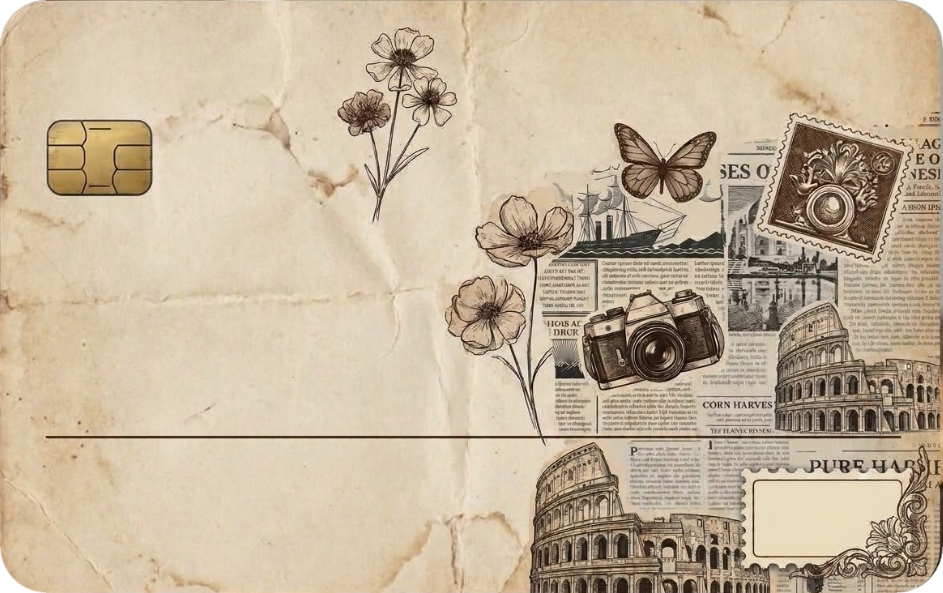
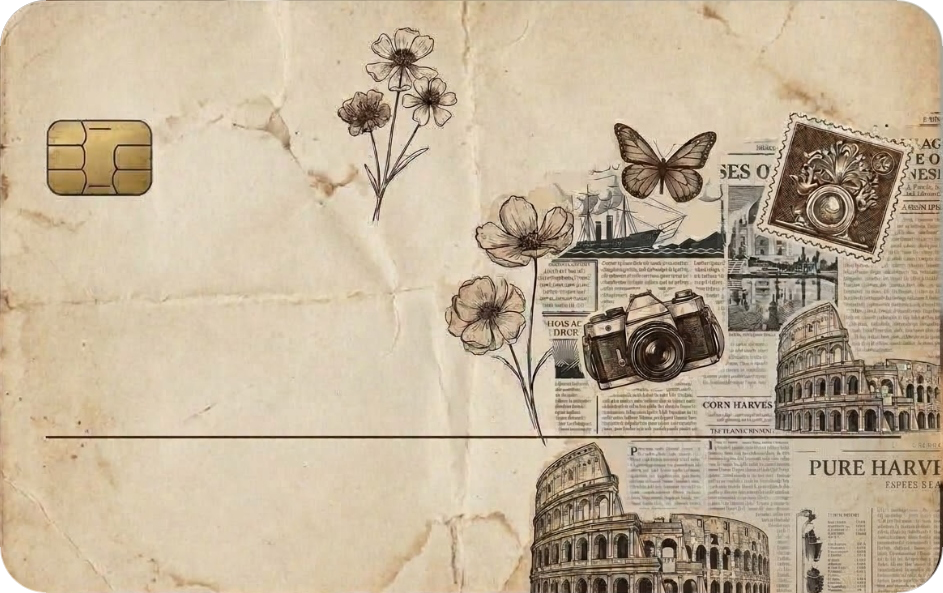
feat(dashboard): overhaul vintage theme styling and update card image

diff --git a/student_dashboard.html b/student_dashboard.html
@@ -627,7 +627,9 @@
       text-shadow: 0 0 8px rgba(244, 114, 182, 0.6), 0 1px 2px rgba(0, 0, 0, 0.4);
     }
 
-    /* ─── VINTAGE THEME OVERRIDES ─── */
+    /* ═══════════════════════════════════════════════════════════
+       VINTAGE NEWSPAPER THEME OVERRIDES (ALL PURPLE REMOVED)
+       ═══════════════════════════════════════════════════════════ */
     [data-theme="vintage"] {
       --bg:           #ede2d1;
       --surface:      #faf4ea;
@@ -647,9 +649,17 @@
 
       --kuromi-purple:#7a4a26;
       --kuromi-dark:  #29180d;
-      --kuromi-pink:  #b3683b;
+      --kuromi-pink:  #9c582f;
       --kuromi-pink-light: #f7ebe1;
       --kuromi-pink-bdr:   #e0c4b0;
+
+      --pp-blue:      #6e4120;
+      --pp-light:     #f4ece1;
+      --pp-border:    #dfcfb7;
+
+      --shadow-subtle: 0 2px 6px rgba(45, 25, 12, 0.05), 0 1px 3px rgba(45, 25, 12, 0.03);
+      --shadow-card:   0 6px 18px -2px rgba(45, 25, 12, 0.08), 0 2px 6px -1px rgba(45, 25, 12, 0.04);
+      --shadow-float:  0 18px 40px -4px rgba(45, 25, 12, 0.22), 0 6px 16px -2px rgba(45, 25, 12, 0.1);
     }
 
     [data-theme="vintage"] body {
@@ -664,9 +674,21 @@
     [data-theme="vintage"] .app-viewport {
       background: #fbf6ee;
       box-shadow: 0 0 60px rgba(45, 25, 12, 0.12);
+      border-color: #dfcfb7;
     }
 
-    /* Vintage Hero Card (Using the new card designed by user) */
+    [data-theme="vintage"] .app-bar {
+      background: rgba(251, 246, 238, 0.92);
+      border-bottom-color: #dfcfb7;
+    }
+
+    [data-theme="vintage"] .brand-emblem {
+      background: linear-gradient(135deg, #382012 0%, #7e4d26 55%, #c99552 100%);
+      box-shadow: 0 3px 10px rgba(70, 40, 20, 0.35);
+      border-color: rgba(200, 150, 80, 0.4);
+    }
+
+    /* Vintage Hero Card (Using the new updated card designed by user) */
     [data-theme="vintage"] .hero-bank-card {
       background: #ede1ce url('assets/card_bg_vintage.png') center center / 100% 100% no-repeat;
       border: 1.5px solid rgba(138, 102, 70, 0.45);
@@ -737,6 +759,239 @@
       background: linear-gradient(135deg, rgba(230, 200, 160, 0.4), rgba(180, 140, 90, 0.25));
       border-color: rgba(140, 106, 73, 0.5);
       color: #3a2211;
+    }
+
+    /* Segmented Switcher & Filter Pills */
+    [data-theme="vintage"] .segmented-switch {
+      background: #eee3d2;
+      border-color: #dfcfb7;
+    }
+
+    [data-theme="vintage"] .seg-tab-btn.active {
+      background: #faf4ea;
+      color: #5a3315;
+      box-shadow: 0 3px 10px rgba(50, 30, 15, 0.12);
+    }
+
+    [data-theme="vintage"] .pill-btn {
+      background: #faf5eb;
+      border-color: #dfcfb7;
+      color: #6e4d30;
+    }
+
+    [data-theme="vintage"] .pill-btn:hover {
+      background: #f3e9db;
+      border-color: #c2ac8e;
+      color: #3d2311;
+    }
+
+    [data-theme="vintage"] .pill-btn.active {
+      background: linear-gradient(180deg, #472914 0%, #2f190a 100%);
+      color: #faf4ea;
+      border-color: #7a4620;
+      box-shadow: 0 3px 10px rgba(45, 25, 12, 0.3);
+    }
+
+    /* Statement Cards */
+    [data-theme="vintage"] .statement-card {
+      background: #faf5ea;
+      border-color: #dfcfb7;
+      box-shadow: 0 2px 8px rgba(45, 25, 12, 0.05);
+    }
+
+    [data-theme="vintage"] .statement-card:hover {
+      border-color: #c2ac8e;
+      box-shadow: 0 5px 16px rgba(45, 25, 12, 0.1);
+    }
+
+    [data-theme="vintage"] .statement-title {
+      color: #24150b;
+    }
+
+    [data-theme="vintage"] .statement-meta {
+      color: #7a593d;
+    }
+
+    [data-theme="vintage"] .statement-amount {
+      color: #24150b;
+    }
+
+    [data-theme="vintage"] .statement-divider {
+      background: #e5d7c3;
+    }
+
+    /* Pay Now & Primary Buttons */
+    [data-theme="vintage"] .btn-pay-now,
+    [data-theme="vintage"] .btn-primary,
+    [data-theme="vintage"] .btn-submit-payment,
+    [data-theme="vintage"] .btn-copy-account {
+      background: linear-gradient(180deg, #442713 0%, #2c170a 100%);
+      border: 1.5px solid #8e6843;
+      color: #faf4ea;
+      box-shadow: 0 3px 10px rgba(45, 25, 12, 0.3);
+    }
+
+    [data-theme="vintage"] .btn-pay-now:hover:not(:disabled),
+    [data-theme="vintage"] .btn-primary:hover:not(:disabled),
+    [data-theme="vintage"] .btn-submit-payment:hover:not(:disabled),
+    [data-theme="vintage"] .btn-copy-account:hover {
+      background: linear-gradient(180deg, #583319 0%, #3a1e0d 100%);
+      border-color: #b5895c;
+      box-shadow: 0 5px 16px rgba(45, 25, 12, 0.42);
+      color: #ffffff;
+    }
+
+    [data-theme="vintage"] .btn-receipt-view {
+      background: #f3e9db;
+      border-color: #dfcfb7;
+      color: #6e4120;
+    }
+
+    [data-theme="vintage"] .btn-receipt-view:hover {
+      background: #faf4ea;
+      border-color: #8e6843;
+      color: #442713;
+      box-shadow: 0 3px 10px rgba(45, 25, 12, 0.15);
+    }
+
+    /* Modal Sheet in Vintage Theme */
+    [data-theme="vintage"] .modal-sheet {
+      background: #faf5eb;
+      border: 1.5px solid #dfcfb7;
+      color: #24150b;
+    }
+
+    [data-theme="vintage"] .sheet-tag {
+      color: #7a4620;
+    }
+
+    [data-theme="vintage"] .modal-title {
+      color: #24150b;
+    }
+
+    [data-theme="vintage"] .modal-amount {
+      color: #24150b;
+    }
+
+    [data-theme="vintage"] .sparkle-stars {
+      color: #a87642;
+      filter: drop-shadow(0 2px 4px rgba(160, 110, 60, 0.3));
+    }
+
+    [data-theme="vintage"] .qr-formal-card {
+      background: #f3e9db;
+      border-color: #dfcfb7;
+      box-shadow: 0 4px 16px rgba(45, 25, 12, 0.07);
+    }
+
+    [data-theme="vintage"] .qr-box-frame {
+      background: #ffffff;
+      border-color: #dfcfb7;
+      box-shadow: 0 3px 12px rgba(45, 25, 12, 0.08);
+    }
+
+    [data-theme="vintage"] .qr-banner {
+      color: #5a351b;
+    }
+
+    [data-theme="vintage"] .qr-banner svg {
+      color: #5a351b;
+    }
+
+    [data-theme="vintage"] .qr-code-wrapper {
+      border-color: #dfcfb7;
+      box-shadow: 0 2px 8px rgba(45, 25, 12, 0.06);
+    }
+
+    [data-theme="vintage"] .slip-upload-dropzone {
+      border-color: #c2ac8e;
+      background: #f4ecdf;
+    }
+
+    [data-theme="vintage"] .slip-upload-dropzone:hover {
+      border-color: #8e6843;
+      background: #eee2d1;
+    }
+
+    [data-theme="vintage"] .slip-upload-dropzone.has-file {
+      border-color: #8e6843;
+      background: #faf4ea;
+      box-shadow: 0 4px 16px rgba(45, 25, 12, 0.1);
+    }
+
+    [data-theme="vintage"] .upload-icon {
+      color: #6e4120;
+    }
+
+    [data-theme="vintage"] .upload-main-text {
+      color: #24150b;
+    }
+
+    [data-theme="vintage"] .upload-sub-text,
+    [data-theme="vintage"] .upload-change-hint {
+      color: #7a593d;
+    }
+
+    /* Treasury Card & Public Board */
+    [data-theme="vintage"] .treasury-card {
+      background: #faf5eb;
+      border: 1.5px solid #dfcfb7;
+      box-shadow: 0 4px 16px rgba(45, 25, 12, 0.06);
+    }
+
+    [data-theme="vintage"] .treasury-caption {
+      color: #7a593d;
+    }
+
+    [data-theme="vintage"] .treasury-total-val {
+      color: #24150b;
+    }
+
+    [data-theme="vintage"] .pb-stat-card {
+      background: #faf5eb;
+      border-color: #dfcfb7;
+      box-shadow: 0 3px 10px rgba(45, 25, 12, 0.05);
+    }
+
+    [data-theme="vintage"] .pb-stat-label {
+      color: #7a593d;
+    }
+
+    [data-theme="vintage"] .pb-matrix-table th {
+      background: #f0e5d5;
+      color: #5c3e25;
+      border-color: #dfcfb7;
+    }
+
+    [data-theme="vintage"] .pb-matrix-table td {
+      border-color: #e5d7c3;
+      color: #24150b;
+    }
+
+    /* Settings dropdown */
+    [data-theme="vintage"] .settings-dropdown {
+      background: #faf5eb;
+      border-color: #dfcfb7;
+      box-shadow: 0 14px 34px -4px rgba(45, 25, 12, 0.22);
+    }
+
+    [data-theme="vintage"] .settings-menu-item:hover {
+      background: #f0e5d5;
+    }
+
+    [data-theme="vintage"] .theme-icon-wrap {
+      background: rgba(142, 104, 67, 0.18);
+      color: #6e4120;
+    }
+
+    [data-theme="vintage"] .menu-item-badge {
+      background: linear-gradient(135deg, #a46733, #683815);
+    }
+
+    [data-theme="vintage"] .btn-icon.active {
+      border-color: #8e6843;
+      color: #543116;
+      box-shadow: 0 0 0 3px rgba(142, 104, 67, 0.18);
     }
 
     /* ─── THEME MODAL STYLING ─── */
